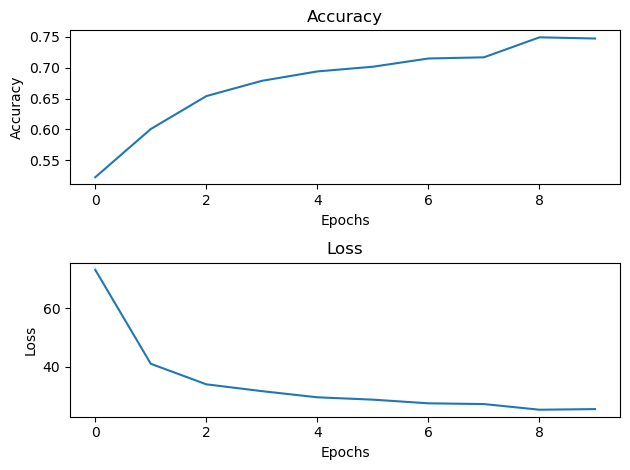
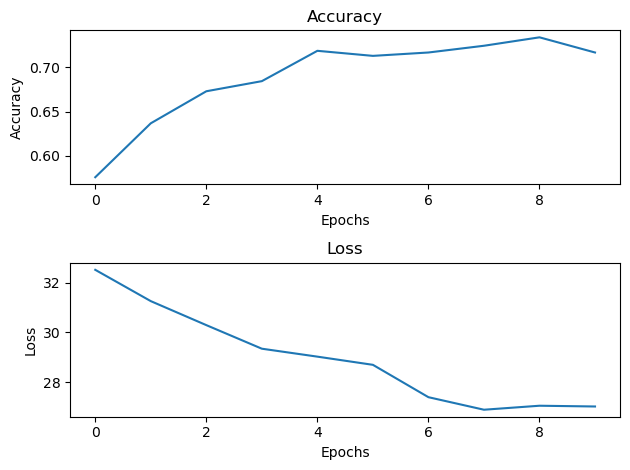
experiment and report completed

diff --git a/Readme.md b/Readme.md
@@ -351,11 +351,19 @@
  ### **Aim**
  - To construct an ensemble classifier for melanoma screening
 
+ *Reader's Note: For future reference the ensemble classifier thus obtained will be referred to as `ensemble v1.0`*
+
 ### **Procedure**
- - For this experiment we will be constructing a 3 class classifier which will specialize in melanoma screening
+ - For this experiment, we will be constructing a 3 class classifier which will specialize in melanoma screening
  - ~~To this end we use the classifier from [the previous experiment](#melanoma-vs-dysplastic-nevi-2) for the first stage of classification between melanoma and melanocytic nevus~~ We finetune an imageNet pretrained model for melanoma vs melanocytic nevus classification
  - We then train another binary classifier between melanoma and seborrheic keratosis
- - An decision making system is used to act as the screener which combines the above classifiers to screen for melanoma
+ - For each of the models, we stop after 14 epochs regardless of performance
+ - An ensemble decision making system is used to act as the screener which combines the above classifiers to screen for melanoma
+ - `ensemble v1.0` is constructed by combining the above classifiers using a majority voting system $\rightarrow$ **(1)** If either classifier predicits Melanoma then suspected Melanom, thus output prediction will be Melanoma
+ $\rightarrow$ **(2)** If both classifiers don't predict Melanoma then we output the class with the higher softmax probability (i.e. the class with the higher confidence)
+ - Clearly, this method has a fundamental flaw for the case when either classifier doesn't predict Melanoma. 
+ - The tie breaking doesn't take into account the similarity between the sample's class and Melanoma. If a sample' similarity is higher to Melanoma, an appropriate weight should be assigned to it's class probability.
+ - Choosing such a weight is non-trivial and we leave it to the next experiment.
  - **The learning rate is increased to 0.0001**
  #### Dataset Stats for melanoma vs bkl samples
  |Dataset| Number of Samples|
@@ -375,23 +383,21 @@
  | `train_dataset` | 4070 |
  | `test_dataset` | 452 |
 
- 
-
-
+ - The samples are split into train and test sets in the ratio 9:1
+ - The samples in each set are **perfectly balanced** as per their class labels and **randomly sampled** for each of the 3 datasets.
 
  #### *Experiment Details*
+  - *Note that the architecture and all other hyperparameters remain the same for all 3 models*
   1. **Architecture:** ResNet101
   2. **Train Epochs:** 14 
   3. **Optimizer:** *SGD*, ~~*lr*: 0.00001~~, *lr*: 0.0001, *momentum*: 0.9
   4. **Additional:** 
    - Images are resized to 224x224 to meet ResNet Specifications
-   - **Color constancy is applied to the dataset, however, [the previous model](#melanoma-vs-dysplastic-nevi-2) was trained without applying color constancy**
+   - **Color constancy is applied to this dataset and each of the 3 models are finetuned from an imageNet pre-trained model, however, [the previous model](#melanoma-vs-dysplastic-nevi-2) was trained without applying color constancy**
    - ~~The model from [the previous experiment](#melanocytic-nevus-vs-melanoma-balanced) was used for identifying misclassified Melanocytic Nevus samples~~ All models were finetuned from resnet101 pretrained on ImageNet
 ### **Observation**
- - The training is a lot more stable as can be seen from the lower standard deviation in the accuracy loss curve
- - The final classwise accuracies are a lot closer to each other and to the 50% threshold.
- - The samples are present in a 53:47 ratio in favour of Melanocytic Nevus
- - The classwise accuracies are in a ration of 55.8:44.2 in favour of Melanocytic Nevus closely resembling the ratio of samples in the dataset
+ - ImageNet pretraining certainly helped improve the performance of the model
+ - The final classwise accuracies for each model are above the 50% mark for binary classification and above the 33% mark for the single case of 3-class classifcation (see [table-1](#classise-accuracy-5), [table-2](#classise-accuracy-6) and [table-3](#classise-accuracy-7))
   <center>
     <div class="row">
     <figure id="fig13"> 
@@ -403,17 +409,17 @@
 
  - [Figure 1](#fig13) ~~Reported standard deviation is low, however, there are some dips in the accuracy curve~~With imageNet pre-training the model performs far better
 
+ ### Melanoma vs Benign Keratosis
  #### *Classise Accuracy*
- ##### Melanoma vs Benign Keratosis
 
  |Class|Accuracy|
  |:----|---:|
- |1. Benign Keratosis|72.2%|
- |2. Melanoma |77.2%|
+ |1. Benign Keratosis|69.6%|
+ |2. Melanoma |74%|
 
  |Mean Accuracy|Standard deviation| Final Test accuracy|
  |:--:|:--:|:--:|
- |60.10%|4.99%| 75%|
+ |68.94%|4.69%| 72%|
 
   <center>
     <div class="row">
@@ -424,21 +430,21 @@
     </div>
  </center>
 
- - [Figure 2](#fig14) Performance of the three class classifier is quite low, perhaps imagenet pre-training + finetuning is required to improve performance
+ - [Figure 2](#fig14) ~~Performance of the three class classifier is quite low, perhaps imagenet pre-training + finetuning is required to improve performance~~ finetuned all models with imageNet pretraining
  
 
+ ### Melanoma vs Benign Keratosis vs Melanocytic nevus (randomly sampled)
  #### *Classise Accuracy*
- ##### Melanoma vs Benign Keratosis vs Melanocytic nevus (randomly sampled)
  |Class|Accuracy|
  |:----|---:|
  |1. Benign Keratosis|53.2%|
- |2. Melanoma |72.2%|
- |3. Melanocytic Nevus |60.1%|
+ |2. Melanoma |60.1%|
+ |3. Melanocytic Nevus |73.4%|
 
 
  |Mean Accuracy|Standard deviation| Final Test accuracy|
  |:--:|:--:|:--:|
- |60.10%|4.99%| 62%|
+ |61.05%|3.73%| 64%|
 
   <center>
     <div class="row">
@@ -451,23 +457,51 @@
 
  - [Figure 3](#fig15) Classifier is able to distinguish between Melanoma and Melanocytic Nevus with a reasonable accuracy
 
+ ### Melanoma vs Melanocytic nevus (randomly sampled)
  #### *Classise Accuracy*
- ##### Melanoma vs Melanocytic nevus (randomly sampled)
  |Class|Accuracy|
  |:----|---:|
- |1. Melanoma |78.3%|
- |2. Melanocytic Nevus |79.9%|
+ |1. Melanoma |77%|
+ |2. Melanocytic Nevus |75.4%|
 
 
   |Mean Accuracy|Standard deviation| Final Test accuracy|
  |:--:|:--:|:--:|
- |77.92%|1.27%| 79%|
+ |74.23%|1.66%| 76%|
+
+ ### Ensemble Classifier ((Melanoma vs Melanocytic nevus) + (Melanoma vs Benign Keratosis))
+ #### *Classise Accuracy*
+ |Class|Accuracy|
+ |:----|---:|
+ |1. Melanoma |82.13%|
+ |2. Melanocytic Nevus |56.27%|
+ |3. Benign Keratosis|33.4%|
+
+
+#### *Confusion Matrix*
+|Name|Melanoma|	Nevus|	Seborrheic Keratosis|
+|:----:|:--:|:--:|:--:|
+|Melanoma|	0.828897 |	0.091255 |	0.079848 |
+|Nevus|	0.372624 |	0.528517 |	0.098859 |
+|Seborrheic Keratosis|	0.517110 |	0.148289 |	0.334601 |
+
+
+
+
+ - We limit our comparision to `ensemble v1.0` and the joint classifier
+ - Accuracy for Melanoma Detection is 22% higher in the ensemble classifier when compared to the final test accuracy of the joint classifier and 17% higher than its max accuracy 
+ - Consequently a 17% drop is observed in the accuracy of Melanocytic Nevus and a 20% drop in the accuracy of Benign Keratosis
 
 ### **Conclusion**
- - Melanoma presents characteristic dermoscopic patters, however, these patterns are not unique to melanoma, rather they are also present in a subclass of Melanocytic Nevus (so far).
- - We suspect these concepts to be true for other classes as well, however, we have not yet explored them.
- - The aim is to guide the network to learn these patterns and distinguish between the classes via a training regime which gradually builds up its distinguishing ability.
- - This can be done via continual learning
- - One major problem encountered in continual learning is catastrophic forgetting, which is the tendency of neural networks to forget previously learned information when learning new information.
- - In our case, we want the previously learnt concepts to complement the newer concepts. At each step the classifier must sequentially test for the presence of previously learnt concepts before attempting to learn a new one.
- - Further research is required to explore this avenue.
+ - The accuracy for melanoma detection increased quite significantly at the cost of a drop in the accuracy of the other two classes
+ - The drop in the accuracy of the other two classes could possibly be attributed to a fault in the tie-breaking mechanism of the ensemble classifier
+ - To this end we also reported the Confusion Matrix `ensemble v1.0`.
+ - Unfortunately, the false positives for melanoma seems to be very high and we've only managed to mitigate the false negatives to a certain extent
+ - A staggering 52% of Benign keratosis samples were misclassified as Melanoma while a moderate 37% of Melanocytic Nevus samples were misclassified as Melanoma
+ 
+### **For the Future**
+ - `ensemble v1.0` is a very naive implementation of an ensemble classifier, we could possibly improve the performance of the classifier by using a more robust tie-breaking mechanism
+ - Melanoma false negatives can be corrected by classwise similarity/tsne evaluation and assigning a weight to each model's melanoma prediction
+ - It can also be a sequential check, if one of the models with a higher weight classifies a samples as melanoma, the model will enter a suspected melanoma stage and a further analysis can be done to confirm the prediction
+ - Tie-breaking for Nevus and Benign Keratosis can be improved by the same method
+ - Improving `ensemble v1.0`'s evaluation method by simpler means is required before involving metadata and concept information. 
